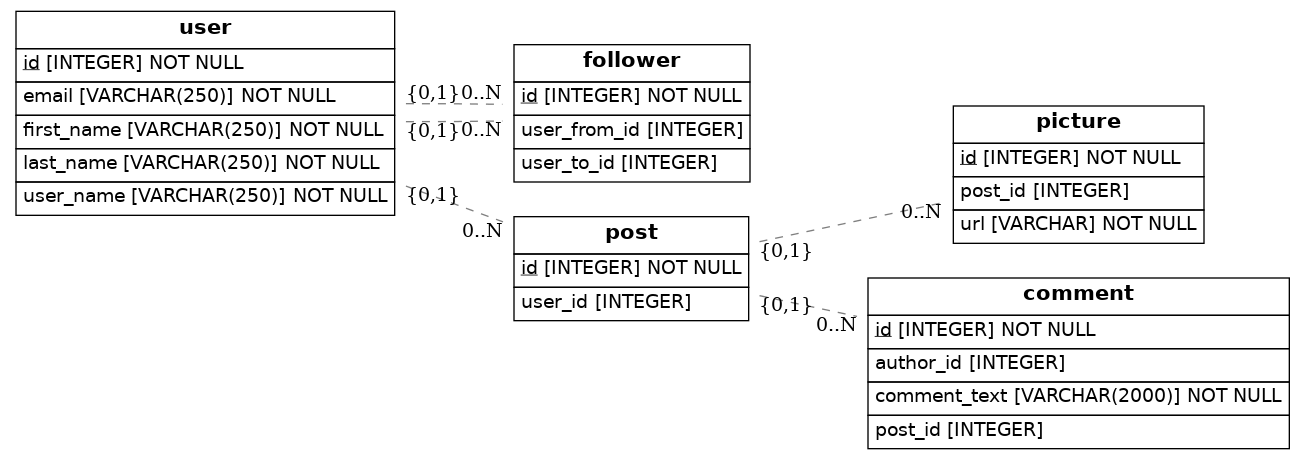
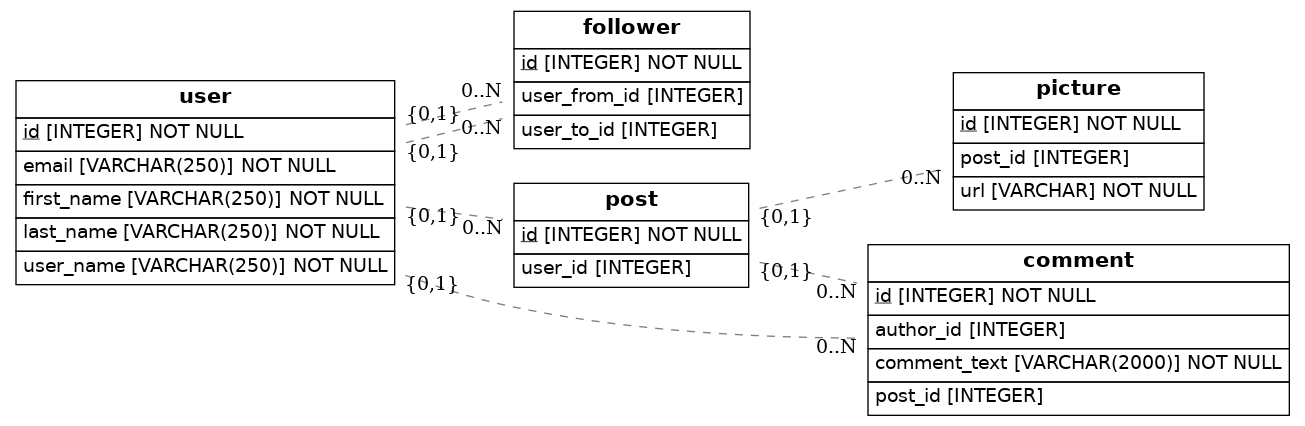
updated models.py to correct small error

Changed region(s): [[0.0, 0.0, 1.0, 1.0]]

diff --git a/src/models.py b/src/models.py
@@ -50,7 +50,7 @@ class Comment(Base):
     __tablename__ = 'comment'
     id = Column(Integer, primary_key=True)
     comment_text = Column(String(2000), nullable=False)
-    author_id = Column(Integer, ForeignKey('author.id'))
+    author_id = Column(Integer, ForeignKey('user.id'))
     post_id = Column(Integer, ForeignKey('post.id'))
     author = relationship(User)
     post = relationship(Post)
